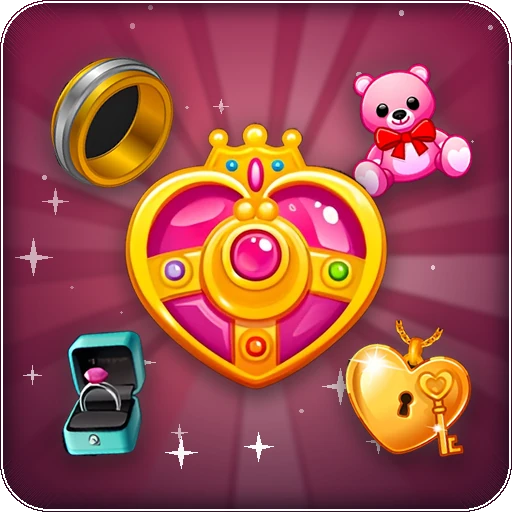
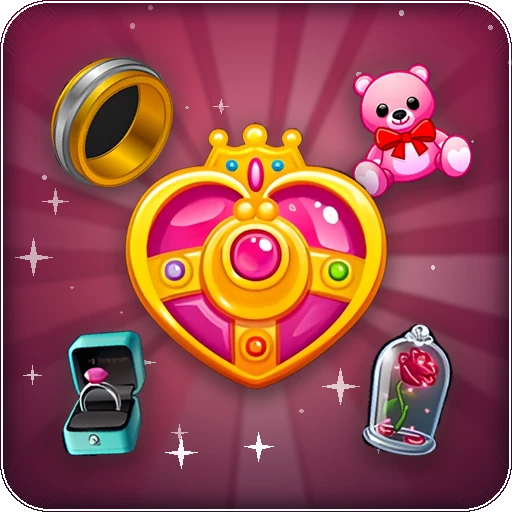
Cases no longer drain: drops in paid cases never below half the price
- New loss floor (default 50% of the case price, admin-tunable): cheaper
  gifts never drop from paid cases; average loss is now 60-78% of the price
- RTP 97%, one gift capped at 25% of opens; Magic and Love get more gifts
  just above their price so wins vary instead of repeating
- Demo starts fresh with 5000 stars

Claude-Session: https://claude.ai/code/session_01WCkCnN39QXwrvxe3Tp7Rzb

Changed region(s): [[0.6562, 0.625, 0.9375, 0.9062]]

diff --git a/casebot/webapp/js/admin.js b/casebot/webapp/js/admin.js
@@ -30,11 +30,12 @@
       data = data || await api('admin/overview'); const s = data.settings;
       const f = (k, label, hint, step = 'any') => `<label class="f"><span>${label}</span><input name="${k}" type="number" step="${step}" value="${s[k]}">${hint ? `<div class="hint">${hint}</div>` : ''}</label>`;
       return `<form class="card" id="setForm"><h3>Свои проценты</h3>
-        ${f('caseRtp', 'RTP кейсов (0.94 = 94%)', 'Какую долю цены кейса в среднем отдаёт кейс. Больше — чаще дорогие подарки и джекпоты. Применяется ко всем кейсам, если у кейса не задан свой.')}
+        ${f('caseRtp', 'RTP кейсов (0.97 = 97%)', 'Какую долю цены кейса в среднем отдаёт кейс. Больше — чаще дорогие подарки и джекпоты. Применяется ко всем кейсам, если у кейса не задан свой.')}
         ${f('hitTarget', 'Шанс «дороже кейса» (0.6 = 60%)', 'Доля открытий, где выпадает подарок дороже цены кейса.')}
         ${f('bigWin', 'Крупные выигрыши x1.5+ (0.1 = 10%)', 'Доля открытий, где подарок дороже цены кейса в 1.5 раза и больше. Входит в шанс «дороже кейса».')}
+        ${f('lossFloor', 'Проигрыш не дешевле (0.5 = 50% цены)', 'Подарки дешевле этой доли цены кейса из платных кейсов не выпадают. Больше — кейс реже «сливает».')}
         ${f('junkCap', 'Мусор, не чаще (0.04 = 4%)', 'Подарки дешевле 25% цены кейса выпадают не чаще этой доли.')}
-        ${f('maxItem', 'Один подарок, не чаще (0.2 = 20%)', 'Чтобы не падало одно и то же: доля открытий на один подарок.')}
+        ${f('maxItem', 'Один подарок, не чаще (0.25 = 25%)', 'Чтобы не падало одно и то же: доля открытий на один подарок.')}
         ${f('upgradeFactor', 'Апгрейд: множитель шанса', 'Шанс = ставка / цель × множитель. 0.6 → на x2 шанс 30%. Меньше — апгрейды чаще сливают.')}
         ${f('upgradeMaxChance', 'Апгрейд: максимальный шанс (0.6 = 60%)')}
         ${f('referralPercent', 'Реферальный % с депозитов друзей')}

diff --git a/casebot/tools/demo/demo.js b/casebot/tools/demo/demo.js
@@ -1,7 +1,7 @@
 /* Демо-режим Drade Drop: тот же интерфейс, а «сервер» работает в браузере (баланс и инвентарь — в localStorage).
    Шансы и цены — те же, что на настоящем сервере (demo-data.json генерится из server/). */
 (function () {
-  const KEY = 'dd_demo_v3';
+  const KEY = 'dd_demo_v4';
   let st; try { st = JSON.parse(localStorage.getItem(KEY)) || null; } catch (e) { st = null; }
   if (!st) st = { balance: 5000, inv: [], next: 1, free: {} };
   const save = () => { try { localStorage.setItem(KEY, JSON.stringify(st)); } catch (e) { } };

diff --git a/casebot/README.md b/casebot/README.md
@@ -30,14 +30,14 @@ casebot/
 - Валюта — ⭐ (1 TON = 100 ⭐). Пополнение: TON на `UQCvGGYFcqrPS3h_AXiVzVHvmUTKLJJ5DurV_VBhpMXcQtd3` (TonConnect или вручную с комментарием `dep<id>`) или Telegram Stars.
 - 2 бесплатных кейса раз в 24 ч: сердечки по 15 ⭐ и одно NFT. Daily — с заданиями (3 шеринга + подписка на `DAILY_CHANNEL`).
 - 9 платных кейсов: Фарм 49 / 449 / 399 ⭐, Обычные 790 / 1490 / 2490 ⭐, ALL IN 7 990 / 24 990 / 129 990 ⭐.
-- Шансы (`server/odds.mjs`, модель «сочный дроп»): 60% открытий — подарок дороже кейса, из них ~10% — x1.5 и дороже;
-  проигрыш подбирается под RTP 94% и тянется к цене кейса; мусор (< 25% цены) — не чаще 4%; один подарок — не чаще 20%
-  открытий, чтобы не падало одно и то же. Всё это — ползунки в админке.
+- Шансы (`server/odds.mjs`, модель «сочный дроп»): 60% открытий — подарок дороже кейса; проигрыш не дешевле половины цены
+  кейса (кейс не «сливает»: в среднем проигрыш 60–78% цены); один подарок — не чаще 25% открытий; RTP 97%.
+  Всё это — ползунки в админке.
 - Апгрейдер (как CaseBattle): ставка 1–6 подарков → цель (x1.5…x20) → шанс = ставка/цель × 0.95 (до 92%). Сервер даёт `roll`,
   стрелка встаёт ровно туда; звук как у ленты кейса — щелчок на каждой крупной отметке.
 - Открытие x2–x5: короткие ленты (48 карточек), без спиннеров/теней/blur на каждой карточке — плавно на слабых телефонах.
 - Вывод подарков: депозит ≥ 50 TON за 7 дней, заявка → поддержка @entoni и админам в бот.
-- **Админка** (`/admin.html`, кнопка Admin в профиле для `ADMIN_IDS`): свои проценты (RTP, доля «дороже кейса», доля крупных, мусор,
+- **Админка** (`/admin.html`, кнопка Admin в профиле для `ADMIN_IDS`): свои проценты (RTP, доля «дороже кейса», доля крупных, нижняя граница проигрыша, мусор,
   лимит на один подарок, шанс апгрейда, реферальный %, условия вывода, курс), цены и ручные шансы каждого кейса, вкл/выкл кейсов,
   юзеры (баланс себе/любому, бан), заявки на вывод, промокоды (⭐ сразу или +% к пополнению), рассылка.
 - Бот: `/start` → «Приветствую…» с баннером и кнопкой «Играть» (Mini App), сообщение закрепляется в чате (старое открепляется);
